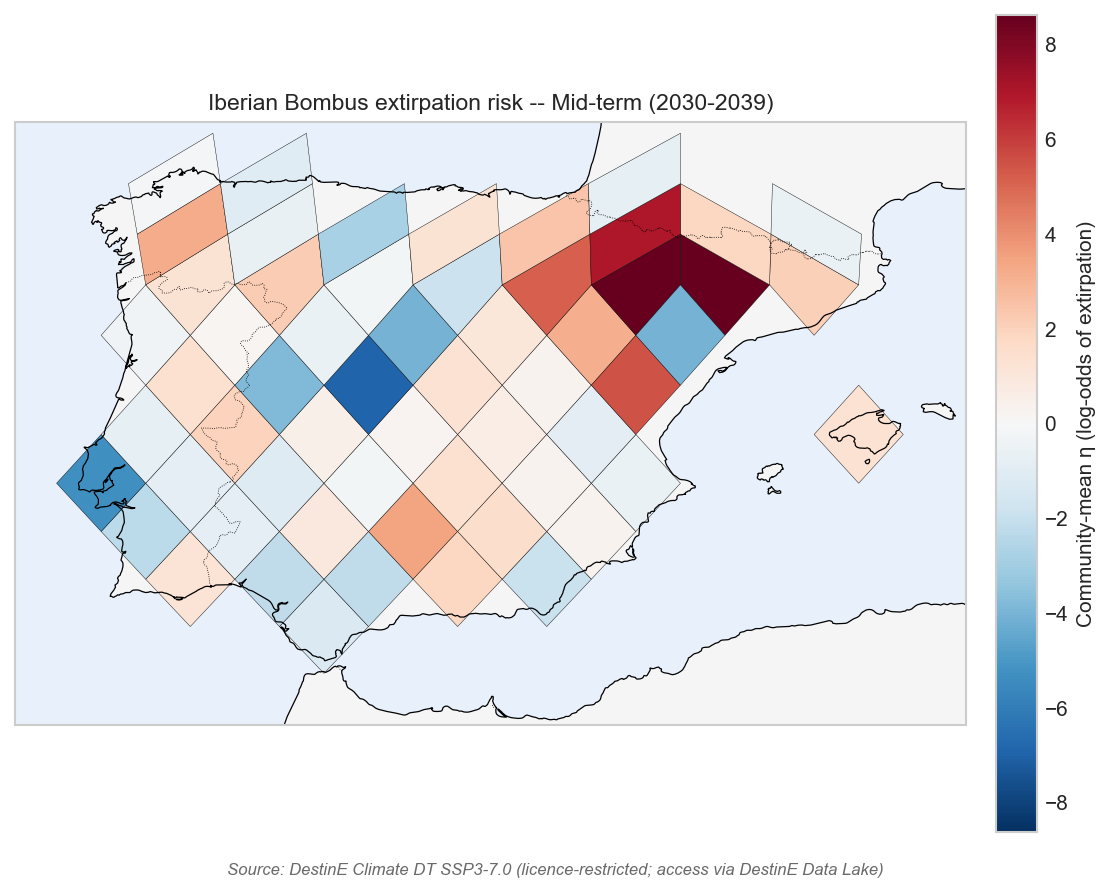
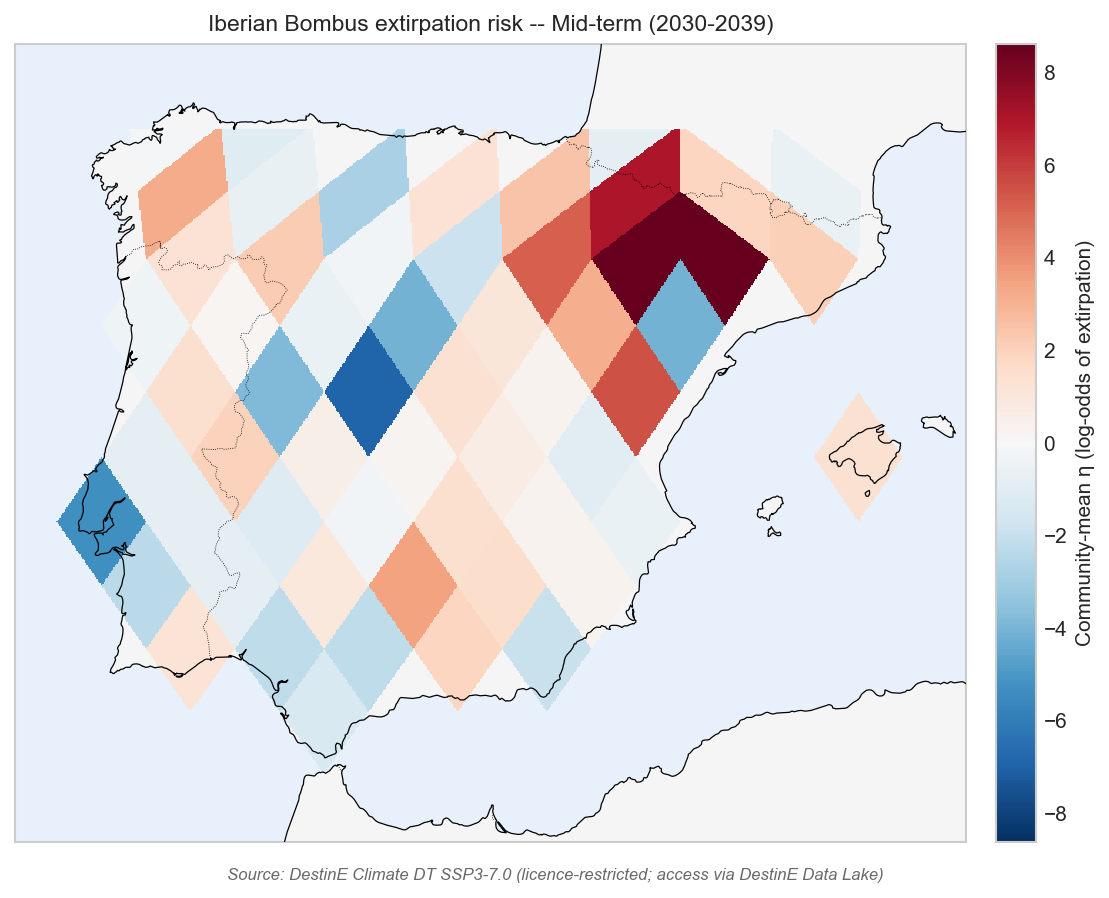
Tier 2 figures — switch HEALPix maps to healpix-plot (EOPF-DGGS canonical)
Replaces the manual healpix_geo.nested.vertices + matplotlib
PolyCollection polygon-rendering of HEALPix cells with the canonical
healpix_plot.plot() function from the EOPF-DGGS plotting library
(per DOMAIN.md: "replaces ad-hoc ang2pix + pcolormesh bridges").

healpix_plot.plot internally:
1. Resamples the 120 sparse nside=64 NESTED cells onto a regular
   600x600 lon/lat grid via nearest-neighbour at the requested view
   extent (-10.5..4.5 lon, 35.0..44.5 lat for Iberia).
2. Renders the resampled raster cleanly through cartopy's PlateCarree
   projection.
3. Uses the same HealpixGrid(level=6, scheme='nested', ellipsoid='WGS84')
   handle the rest of the pipeline uses.

Removes:
- Manual hp_vertices() vertex computation
- PolyCollection polygon construction
- (N_64, 4, 2) poly_xy array

Visual improvements:
- No polygon-overlap artefacts at sub-pixel boundaries (PlateCarree
  straight-edge approximation caused micro-overlap in the previous
  rendering).
- Coastlines + borders drawn ON TOP of the raster (zorder=3) — they
  were partially obscured by the polygons before.
- Cleaner antialiasing at the Iberia bbox edge.
- Background NaN handled as transparent, no off-mainland artefacts.

The diamond cell shape persists — that's genuine HEALPix-equatorial-
belt geometry (Górski et al. 2005), unavoidable at any nside in a
flat lon/lat projection. healpix_plot doesn't change the geometry,
just renders it more faithfully.
[…]

diff --git a/notebooks/08_projection_figures.py b/notebooks/08_projection_figures.py
@@ -47,8 +47,8 @@ import cartopy.feature as cfeature
 import matplotlib.pyplot as plt
 import numpy as np
 import xarray as xr
-from healpix_geo.nested import vertices as hp_vertices
-from matplotlib.collections import PolyCollection
+import healpix_plot
+from healpix_plot import HealpixGrid
 
 # %%
 plt.style.use("seaborn-v0_8-whitegrid")
@@ -91,29 +91,27 @@ for h in HORIZONS:
         print(f"  [missing] {p}")
 
 # %% [markdown]
-# ## Cell vertices via healpix-geo (WGS84, NESTED)
+# ## HEALPix plotting via `healpix_plot` (EOPF-DGGS canonical)
 #
-# `vertices(ipix, depth, ellipsoid="WGS84")` returns (N, 4) lon/lat
-# arrays — the four corners of each HEALPix cell on the WGS84
-# ellipsoid (matching DestinE Climate DT, the EOPF-DGGS legacy-converters
-# canonical settings, and the substrate the GLMM was fit on). We wrap
-# longitudes from healpix-geo's native [0, 360) to [-180, 180] for
-# plotting. Cells that straddle the antimeridian are not an issue at
-# Iberia latitudes — IBERIA is fully in the western hemisphere of the
-# (-180, 180) frame.
+# We use `healpix_plot.plot()` — the EOPF-DGGS-canonical HEALPix +
+# cartopy plotting bridge (per `DOMAIN.md`: *"replaces ad-hoc ang2pix
+# + pcolormesh bridges"*). Internally it:
+#
+# 1. Resamples the 120 sparse nside=64 NESTED cells onto a dense
+#    regular lon/lat grid (nearest-neighbour by default) at the
+#    requested `view` extent.
+# 2. Renders the resampled raster cleanly in any cartopy projection.
+#
+# This replaces our previous manual `PolyCollection` of cell-vertex
+# polygons, which had two visual artefacts: (a) diamond-oriented
+# polygons that — although technically correct HEALPix geometry for
+# the equatorial belt — looked geometrically unfamiliar; (b)
+# straight-edge approximation in PlateCarree caused micro-overlap
+# at sub-pixel boundaries.
 
 # %%
-lon_v, lat_v = hp_vertices(IBERIA_PIX_64, DEPTH, ellipsoid="WGS84")
-# (N_64, 4) for both
-lon_v = np.where(lon_v > 180.0, lon_v - 360.0, lon_v)
-print(f"vertex array shapes: lon={lon_v.shape}  lat={lat_v.shape}")
-print(
-    f"lon vertex range: {lon_v.min():.2f} .. {lon_v.max():.2f}  "
-    f"lat vertex range: {lat_v.min():.2f} .. {lat_v.max():.2f}"
-)
-
-# Build (N_64, 4, 2) polygon array for matplotlib.
-poly_xy = np.stack([lon_v, lat_v], axis=-1)         # (N_64, 4, 2)
+HPX_GRID = HealpixGrid(level=DEPTH, indexing_scheme="nested", ellipsoid="WGS84")
+print(f"HealpixGrid: level={DEPTH} (nside={2**DEPTH}), NESTED, WGS84")
 
 # %% [markdown]
 # ## Helper: ranked bar chart on a given matplotlib axis
@@ -187,7 +185,7 @@ def _plot_rank(ax, records, title, color, order_species=None,
 
 # %%
 def _draw_healpix_map(ax, raster_per_cell, title):
-    """Draw the Iberia raster as colour-filled HEALPix-cell polygons.
+    """Draw the Iberia raster via `healpix_plot.plot` (EOPF-DGGS canonical).
 
     Diverging colormap centred on η = 0 (the moderate-risk threshold:
     log-odds 0 ↔ p = 0.5). Red cells = high projected extirpation
@@ -199,8 +197,6 @@ def _draw_healpix_map(ax, raster_per_cell, title):
     ax.set_extent([-10.5, 4.5, 35.0, 44.5], crs=proj)
     ax.add_feature(cfeature.LAND, facecolor="#f5f5f5", zorder=0)
     ax.add_feature(cfeature.OCEAN, facecolor="#e8f0fb", zorder=0)
-    ax.add_feature(cfeature.COASTLINE, linewidth=0.6, zorder=2)
-    ax.add_feature(cfeature.BORDERS, linewidth=0.4, linestyle=":", zorder=2)
 
     valid = np.isfinite(raster_per_cell)
     if valid.sum() == 0:
@@ -208,24 +204,31 @@ def _draw_healpix_map(ax, raster_per_cell, title):
         return None
 
     span = max(0.5, float(np.nanpercentile(np.abs(raster_per_cell), 98)))
-    cmap = plt.get_cmap("RdBu_r")
-    norm = plt.Normalize(vmin=-span, vmax=+span)
 
-    polys = poly_xy[valid]
-    vals = raster_per_cell[valid]
-    pc = PolyCollection(
-        polys,
-        array=vals,
-        cmap=cmap,
-        norm=norm,
-        edgecolors="black",
-        linewidths=0.2,
-        transform=proj,
-        zorder=1,
+    # `healpix_plot.plot` resamples the 120 sparse NESTED cells onto a
+    # regular grid at the requested `view` extent and plots in cartopy.
+    # Returns an AxesImage we can attach a colorbar to. shape=600 is
+    # ample for a 14°×9° view at nside=64 (~92 km cells).
+    img = healpix_plot.plot(
+        cell_ids=IBERIA_PIX_64.astype(np.uint64),
+        data=raster_per_cell.astype(np.float64),
+        healpix_grid=HPX_GRID,
+        sampling_grid={"shape": 600},
+        view=(-10.5, 4.5, 35.0, 44.5),
+        interpolation="nearest",
+        background_value=np.nan,
+        ax=ax,
+        cmap="RdBu_r",
+        vmin=-span,
+        vmax=+span,
+        title=None,    # we set the title below to keep style consistent
     )
-    ax.add_collection(pc)
+    # Re-overlay coastlines + borders ON TOP of the resampled raster
+    # (healpix_plot draws into ax, which clobbers our zordered features).
+    ax.add_feature(cfeature.COASTLINE, linewidth=0.6, zorder=3)
+    ax.add_feature(cfeature.BORDERS, linewidth=0.4, linestyle=":", zorder=3)
     ax.set_title(title, fontsize=11)
-    return pc
+    return img
 
 
 # %% [markdown]
